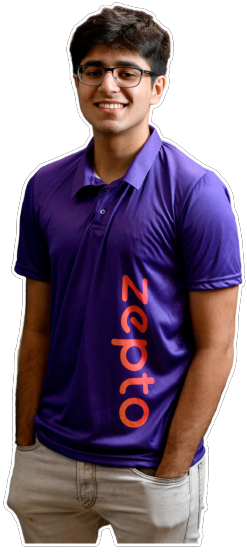
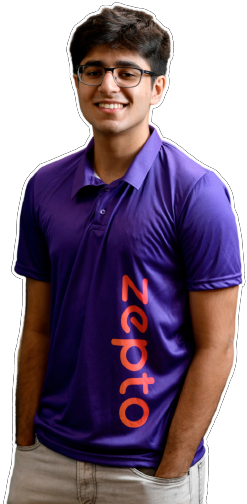
speakers cutouts edit1

diff --git a/style.css b/style.css
@@ -697,9 +697,9 @@ video::-webkit-media-controls-enclosure {
 
 #speaker1{
     position: absolute;
-    height: 32rem;
-    left: 3rem;
-    bottom: -10rem;
+    height: 23rem;
+    left: 4rem;
+    bottom: 0;
     
 }
 #speaker2{
@@ -711,14 +711,14 @@ video::-webkit-media-controls-enclosure {
 #speaker3{
     position: absolute;
     height: 22rem;
-    right: 5rem;
-    bottom: -2rem;
+    right: 6rem;
+    bottom: 0rem;
 }
 #speaker4{
     position: absolute;
     right: -2rem;
-    bottom: -5rem;
-    height: 21rem;
+    bottom: 0rem;
+    height: 18rem;
 }
 
 .speakers-images-box {
